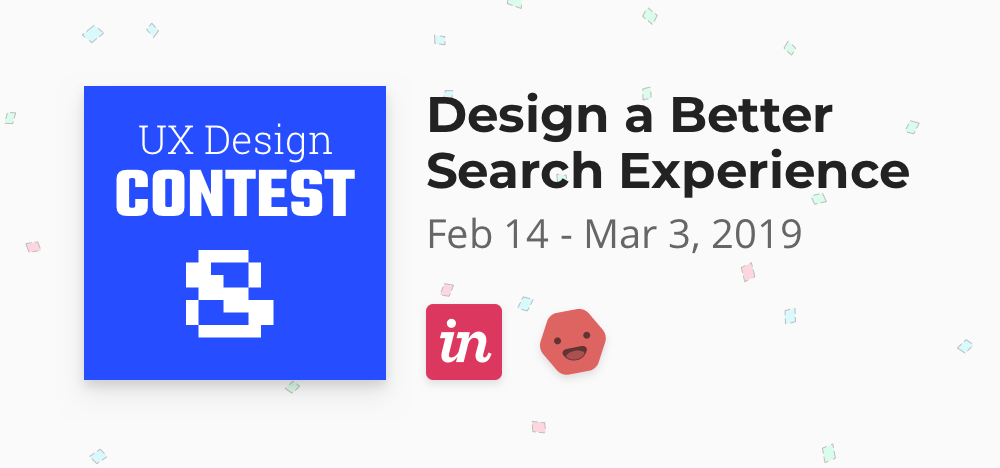
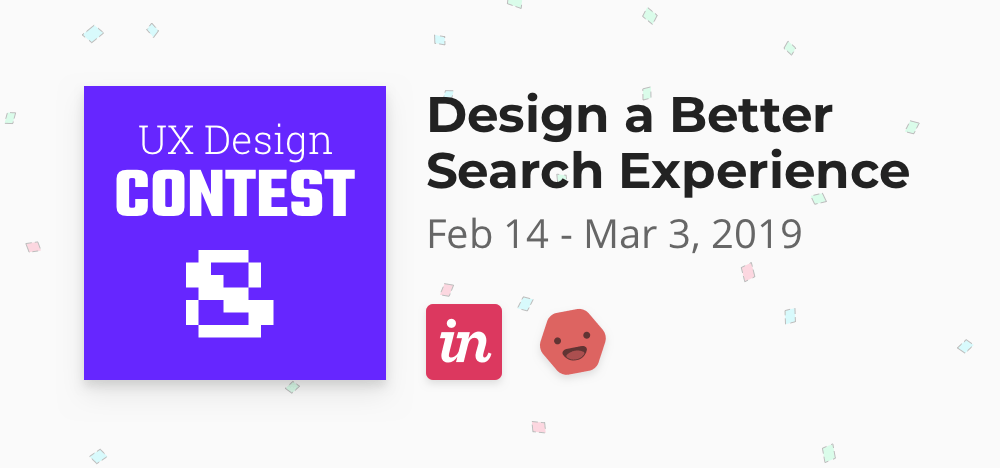
Update contest image and card accent color

Changed region(s): [[0.062, 0.1795, 0.403, 0.8376]]

diff --git a/index.html b/index.html
@@ -318,9 +318,9 @@
             </div> -->
 
             <div data-aos="fade-up" data-aos-offset="100" data-aos-delay="300">
-              <button class="ar-card ar-card--md ar-card--project ar-card--red p-0 elevation-2 m-x-2 m-b-4" data-toggle="modal"
+              <button class="ar-card ar-card--md ar-card--project ar-card--yellow p-0 elevation-2 m-x-2 m-b-4" data-toggle="modal"
                 data-target="#uxdContestModal" tabindex="0">
-                <div class="background-image current-project_background-image background-image--ux-design-contest-8 border-b-red position-relative"></div>
+                <div class="background-image current-project_background-image background-image--ux-design-contest-8 border-b-yellow position-relative"></div>
                 <div class="ar-card__body p-4">
                   <p class="ar-card__heading ar-card__heading--md">🏆 February UX Design Contest</p>
                 </div>
@@ -387,7 +387,7 @@
         aria-hidden="true">
         <div class="modal-dialog modal-lg modal-dialog-centered" role="document">
           <div class="modal-content">
-            <div class="modal-header border-b-red p-4 position-relative">
+            <div class="modal-header border-b-yellow p-4 position-relative">
               <h3 class="modal-title" id="uxdContestModal">🏆 February UX Design Contest</h3>
               <button type="button" class="close modal-close" data-dismiss="modal" aria-label="Close">
                 <span aria-hidden="true"><i class="fas fa-times"></i></span>
@@ -403,7 +403,7 @@
 
               <!-- <div style="background:hsla(264, 100%, 97%, 1); padding: 16px;"> -->
 
-<p>Join me as I demonstrate evaluating, prototyping, and testing search experiences with tools like <a href="https://invisionapp.com"
+<p>Join me live on Twitch as I demonstrate evaluating, prototyping, and testing search experiences with tools like <a href="https://invisionapp.com"
     target="_blank">InVision</a> and <a href="https://usabilityhub.com" target="_blank">UsabilityHub</a>:
                 <ul class="list-unstyled" style="background:hsla(264, 100%, 97%, 1); border-radius: 0.5rem; padding: 16px;">
                   <li>
